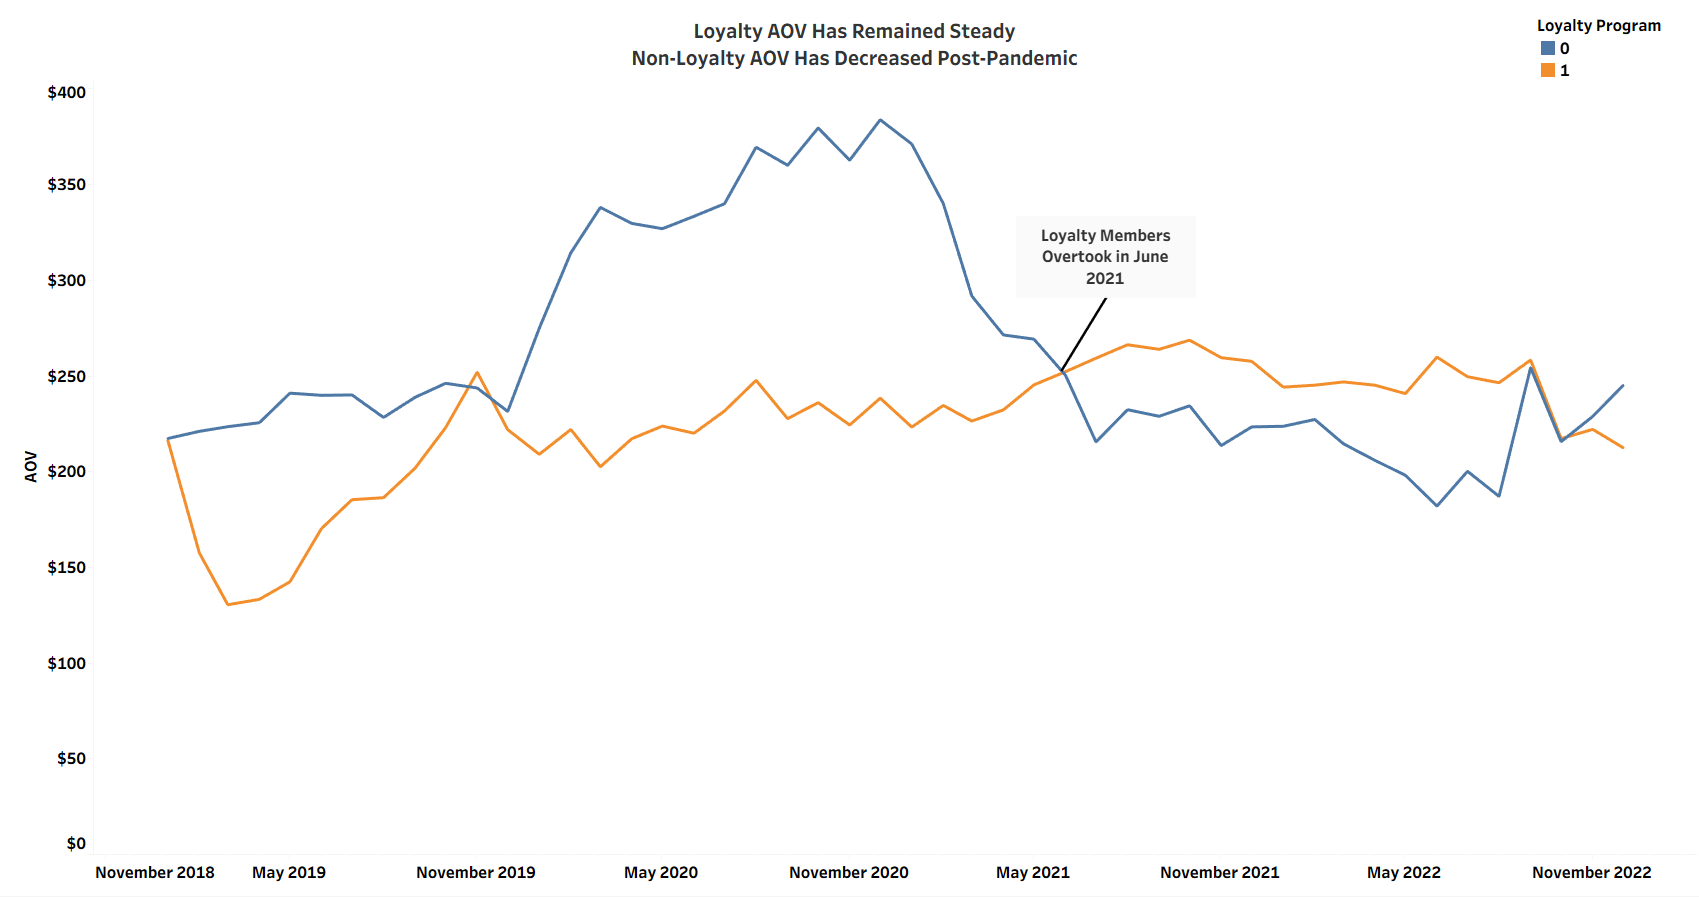
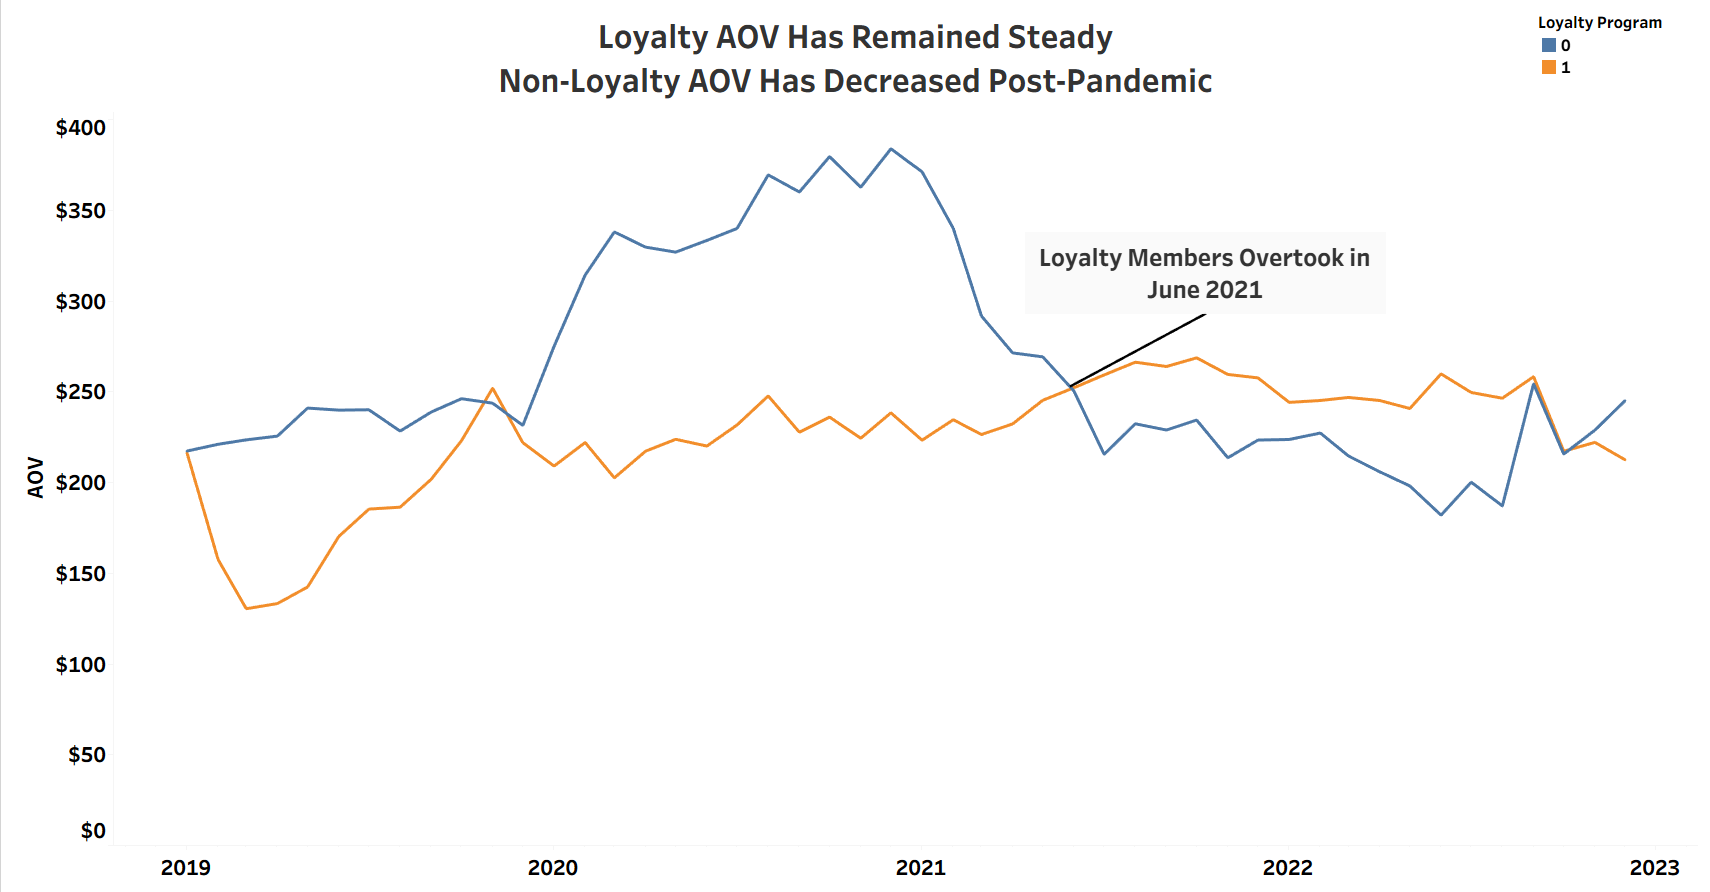
Almost done loyalty insights

diff --git a/README.md b/README.md
@@ -40,21 +40,43 @@ Founded in 2018, TechLance is an e-commerce electronics company that sells popul
 ## Loyalty Program
 
 <p align="center">
-  <img src="Figures/Loyalty_AOV.png" width="45%" height=200 />
-  <img src="Figures/Loyalty_Order_Count.png" width="45%" height=200 />
+  <img src="Figures/Loyalty_AOV.png" width="49%" height=200 />
+  <img src="Figures/Loyalty_Order_Count.png" width="49%" height=200 />
 </p>
 
-* Non-loyalty members dominated early performance, peaking at 108% YoY growth in 2020 and generating **71% ($7.2M) of total revenue**. However, with a sharp decline in **February 2021 by -39%**, non-loyalty members began to decline in total revenue, eventually reaching **under $200K in Q4 2022**
+<table>
+    <tr>
+        <td width="45%" valign="top" style="border: 1px solid white; padding: 16px;">
 
-* This pattern is also reflected in other metrics, where **AOV peaked at $345** and **order count reached 20,822 in 2020**. Both declined shortly thereafter, decreasing in AOV and order count by **-18% and -36%** respectively.
+<strong> Loyalty Steady Growth</strong>
+<ul>
+    <li> Throughout 2019, loyalty members <strong> surged 93.8% </strong>, following the introduction of the program .</li>
+    <li> Loyalty AOV has been gradually <strong> growing by 0.3% MoM </strong>, indicating a consistent increase in higher valued purchases. </li>
+</ul>
 
-* Loyalty members, struggled initially but saw **rapid growth through 2019 and  the pandemic period**, increasing 614% YoY in 2020 and 64% in 2021. Despite a decline in 2022 by -44%, loyal members continue to **drive 55% of total revenue**.
+<strong>Non-Loyalty AOV Faced Significant Decline </strong>
+<ul>
+    <li> In Q1 2020, non-loyalty AOV <strong> grew 46.3% to $338 </strong>, potentially driven by <strong> significant changes in customer behavior from the pandemic </strong> and maintained growth throughout 2020. </li>
+    <li> Throughout 2021-2022, non-loyalty AOV <strong> fell sharply by -52.6% to $182 </strong>, once at its peak of $384 in December 2020, <strong> returning to consistent purchases </strong> rather than temporary large one-time purchases from the pandemic. </li>
+</ul>
 
-* AOV for loyalty members are trending upwards, starting at $207 in 2019 and reaching $245 in 2022. However, order count has **declined to 11,107**, a 43% decrease from the previous year.
+</td>
+
+<td width="44%" valign="top" style="border: 1px solid white; padding: 16px;">
+
+<strong> Loyalty Program Grows in Popularity, while Non-Loyalty Order Volume Declines </strong>
+<ul>
+    <li> Both groups grew in H1 2020, but <strong> loyalty members grew much faster </strong>at 21.1% vs. 6.6% for non-loyalty customers.  </li>
+    <li> After a Q3 2020 dip, <strong> loyalty orders grew 8.0% on average, peaking at a record 1,655 orders, while non-loyalty members fell by 2.1% </strong></li>
+</ul>
+
+</td>
+    </tr>
+</table>
 
 ## Refund Rates 
 
-![alt text](Figures/Refund.png)
+![alt text ](Figures/Refund.png)
 
 * When looking at Apple products specifically, **the Macbook Air Laptop has the highest refund rate overall**, peaking at 18.3% in 2019, but decreasing on average 1.6% YoY. 
 
